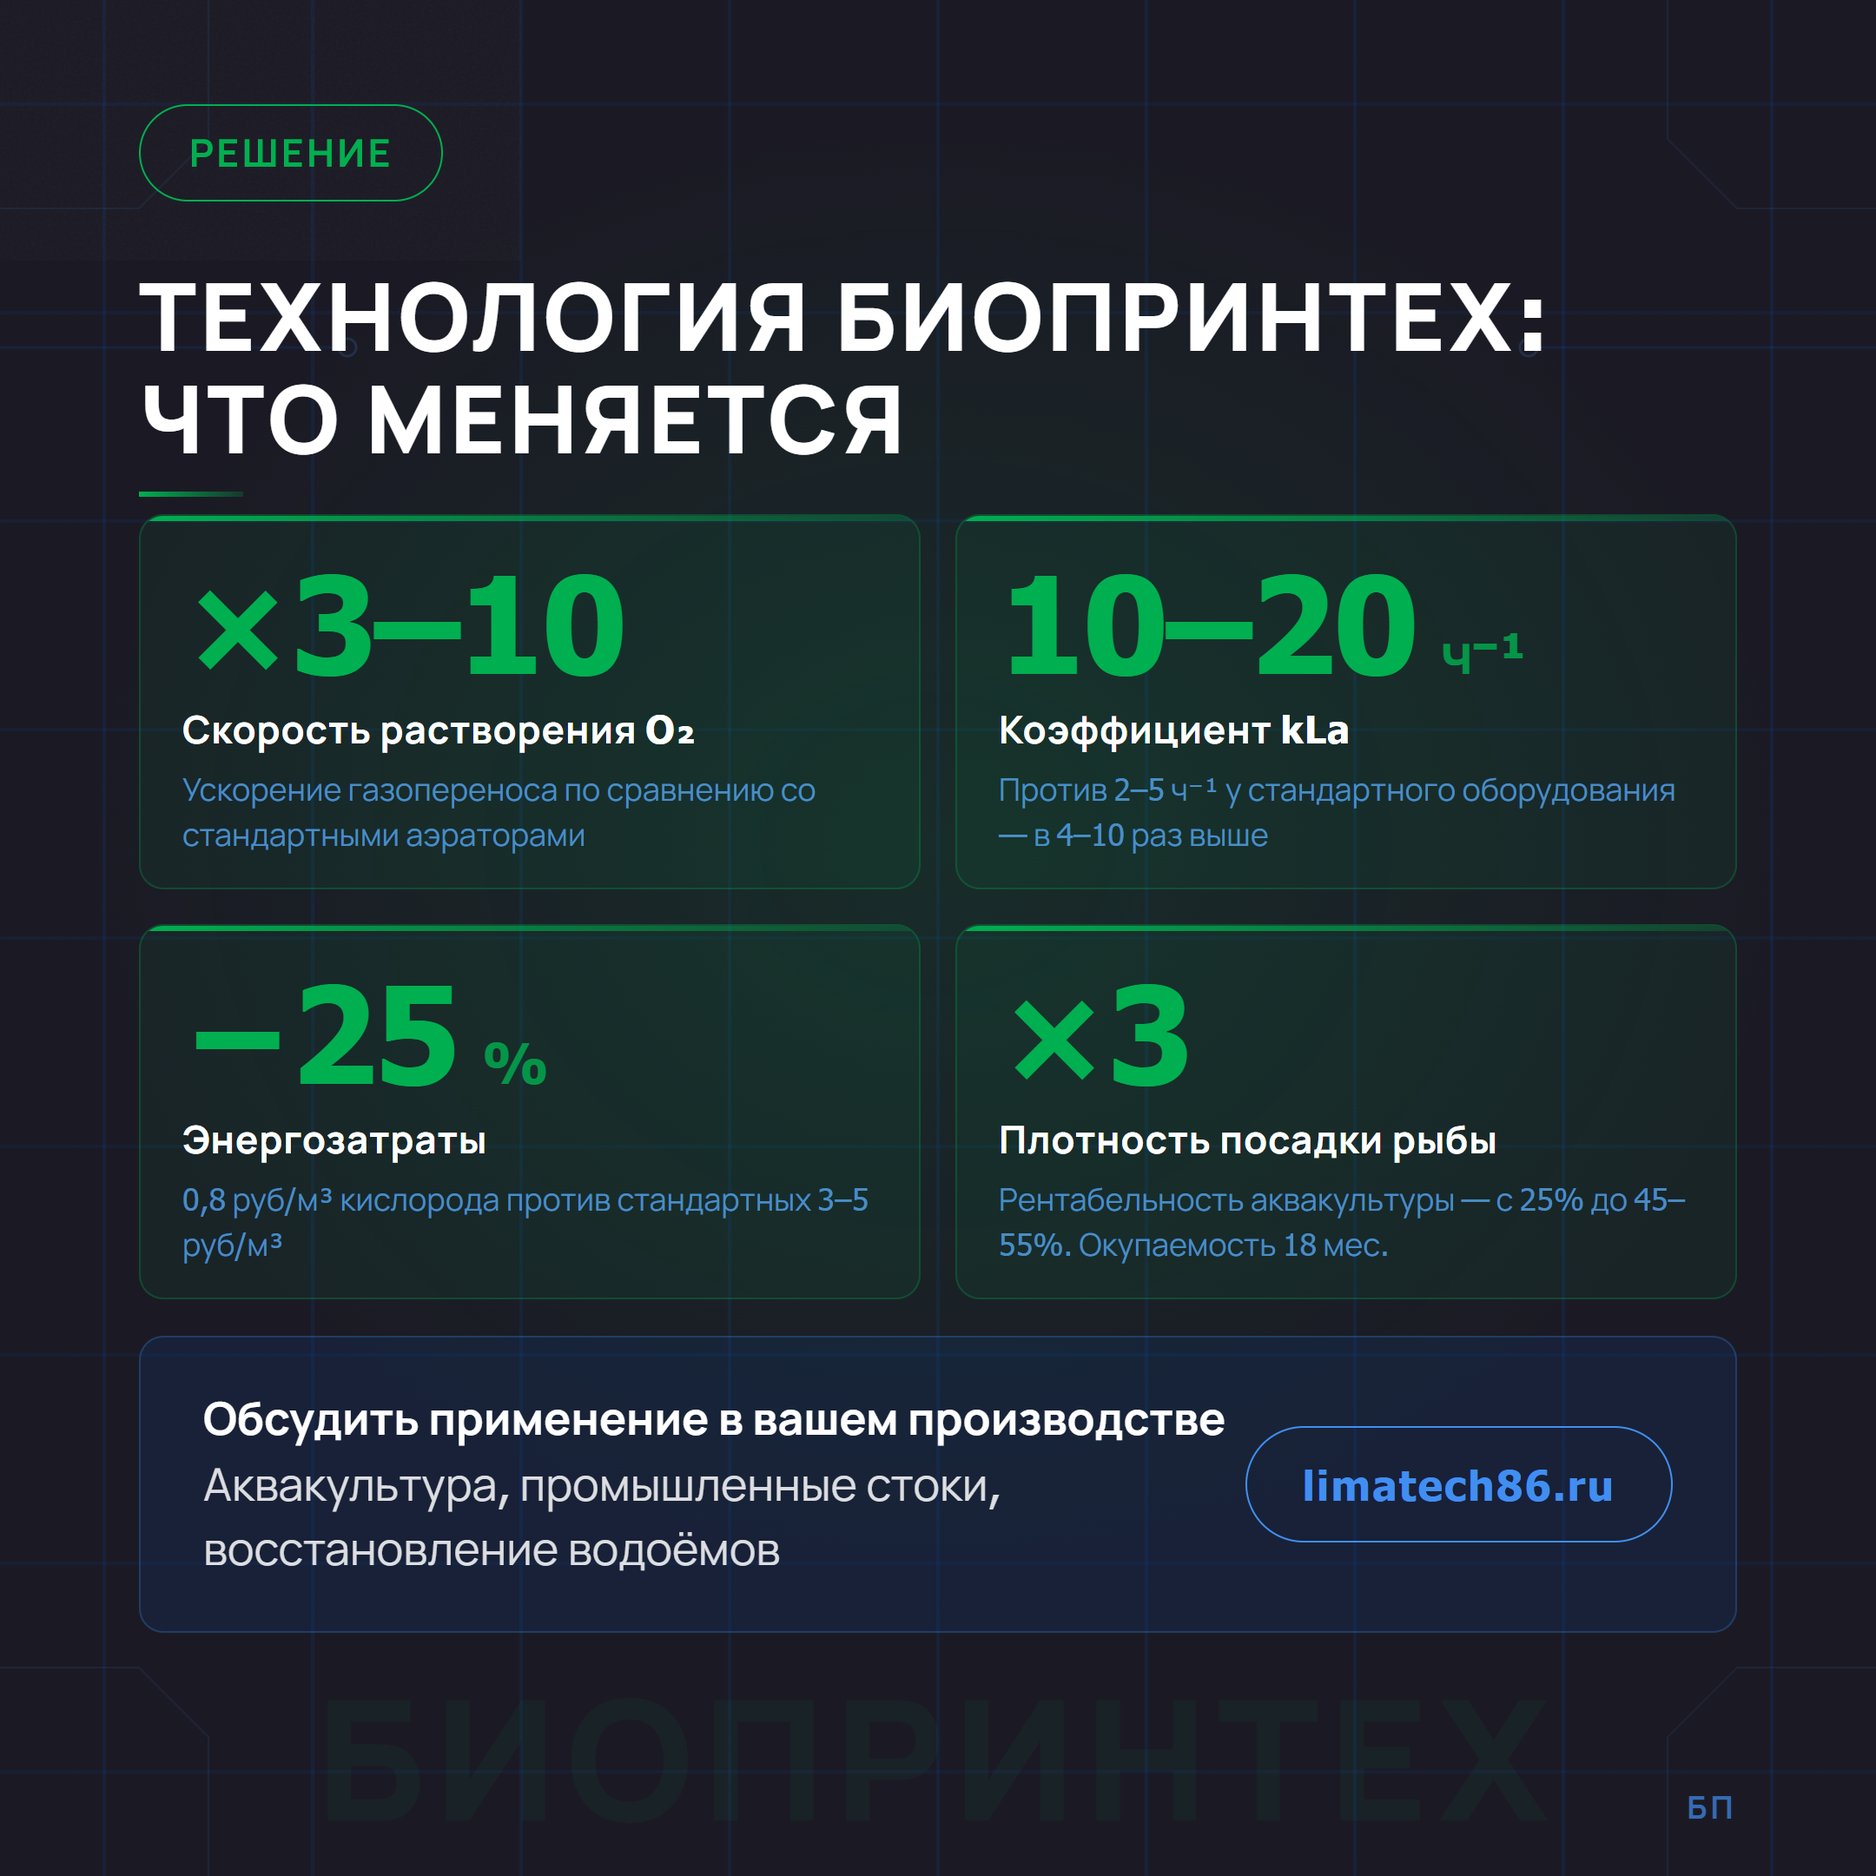
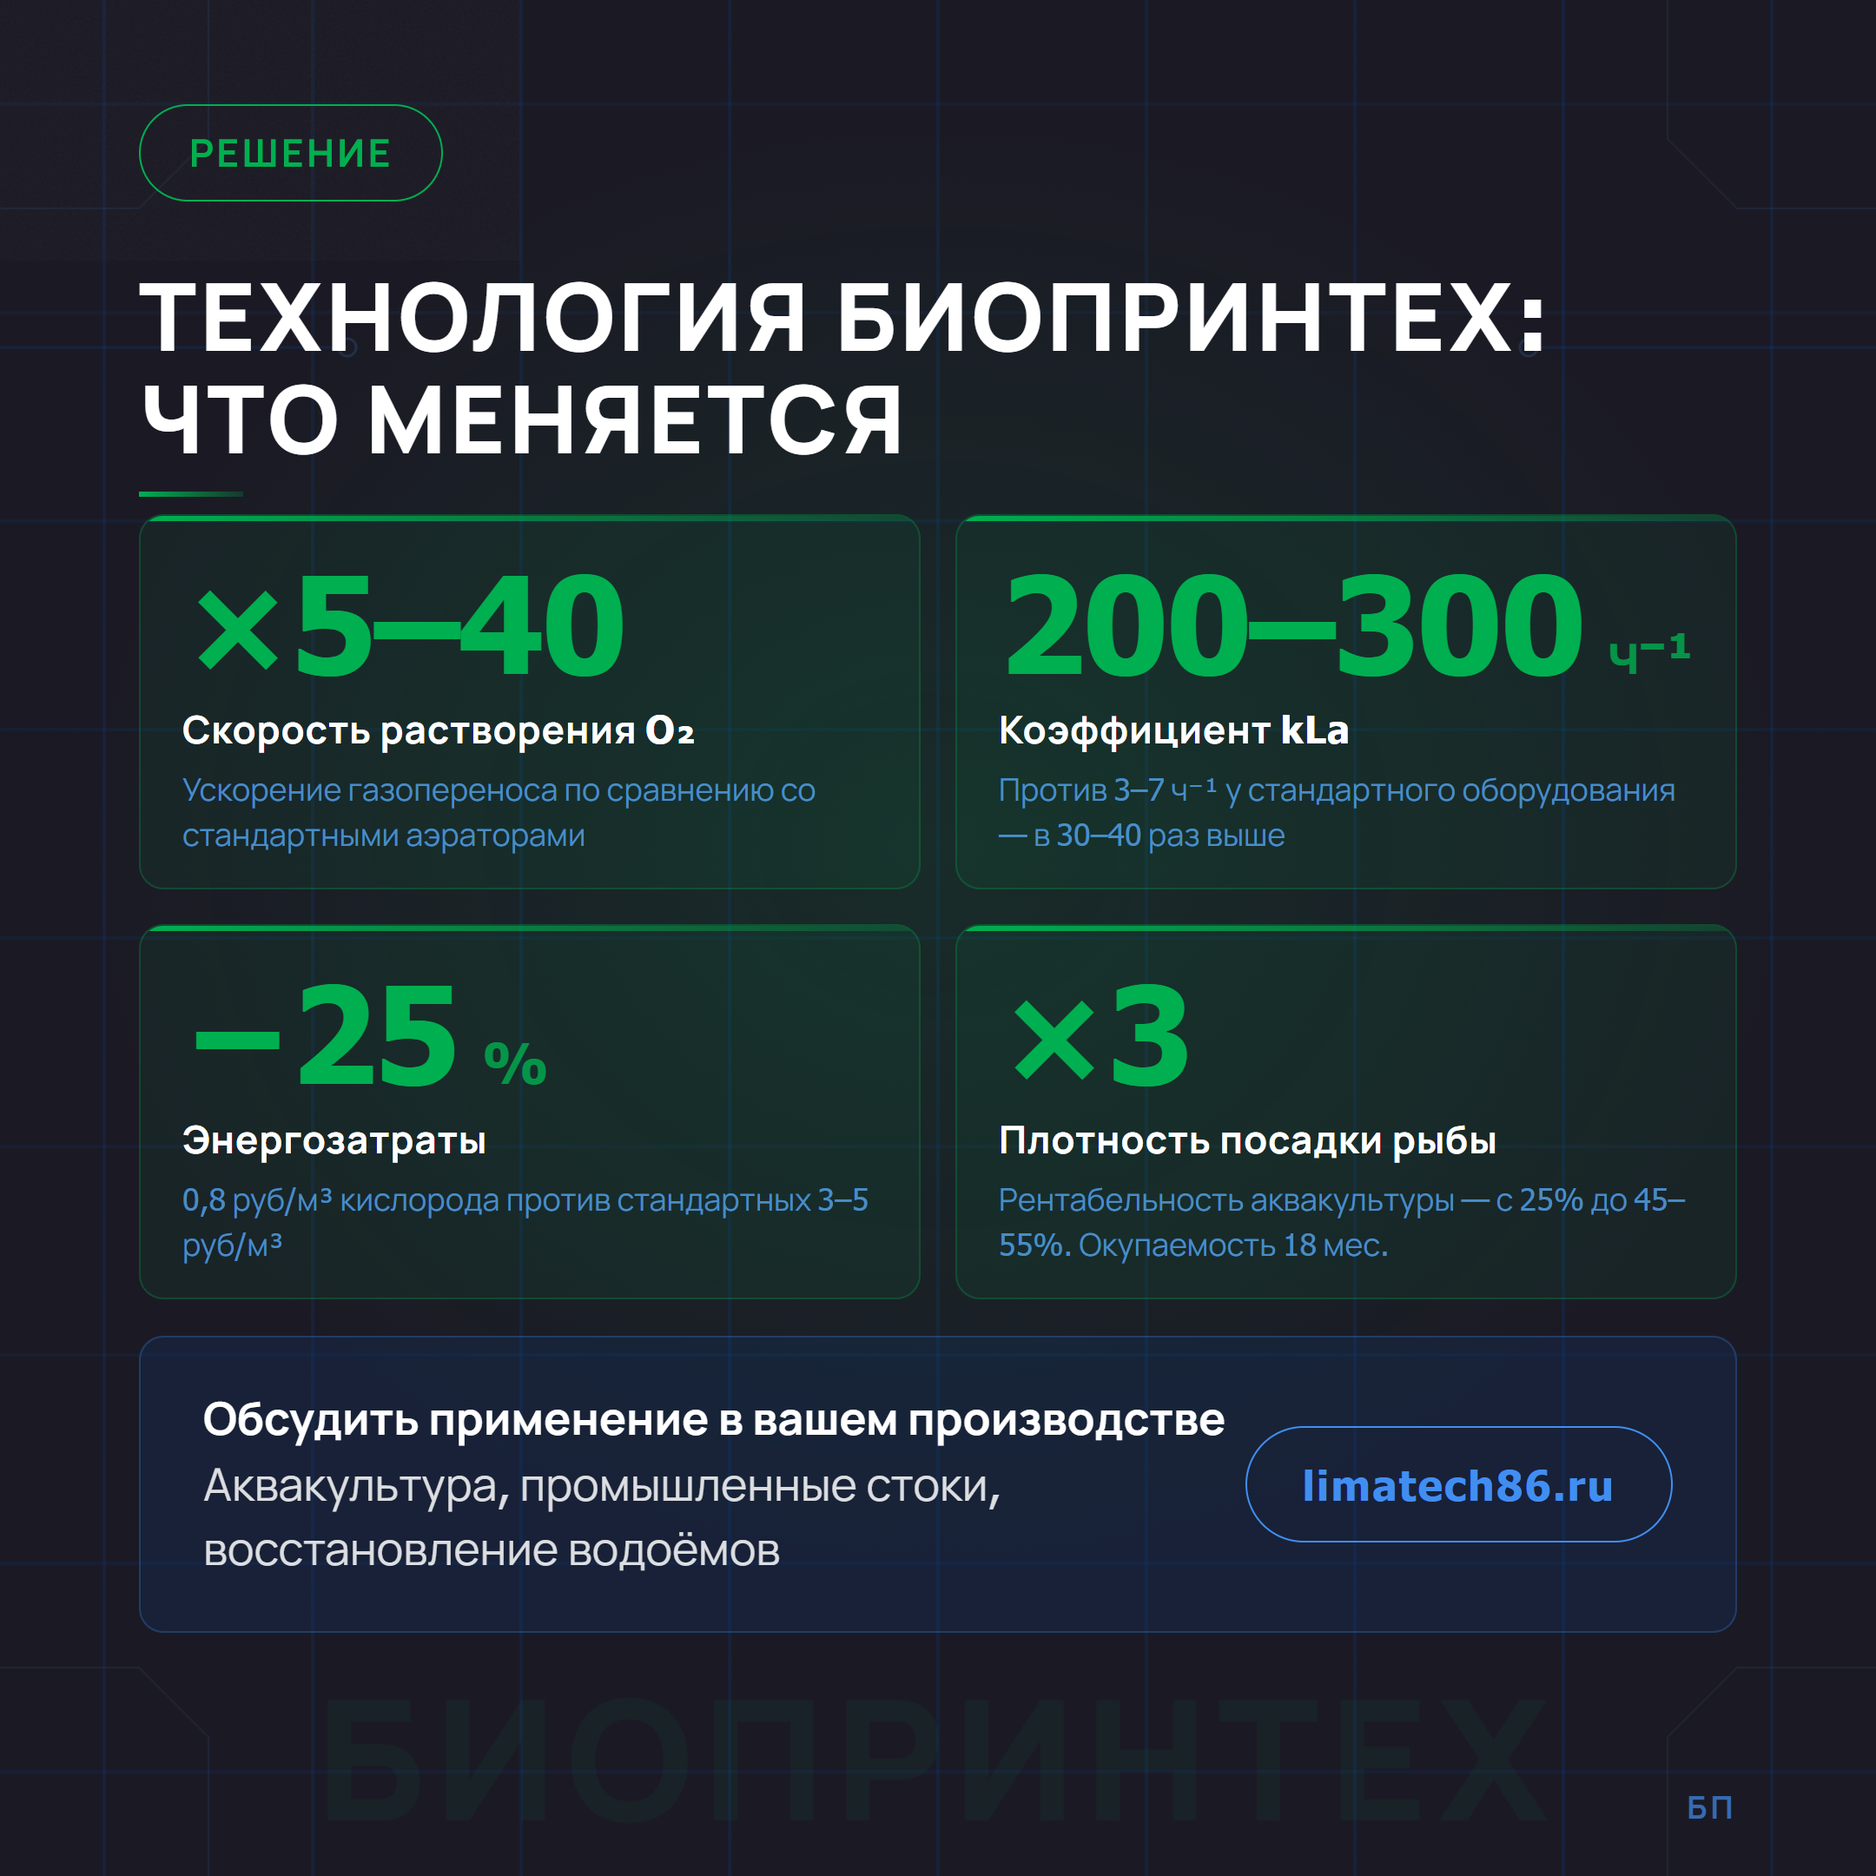
posts: правки клиента — цифры kLa и скорость пузыря, пост газоперенос — Limatech

diff --git a/projects/Bioprintex_Limatex/posts/drafts/29_04_2026-1/slide_03.html b/projects/Bioprintex_Limatex/posts/drafts/29_04_2026-1/slide_03.html
@@ -185,7 +185,7 @@
 
   <!-- Большая цифра kLa -->
   <div class="big-number-block">
-    <div class="big-num">2–5
+    <div class="big-num">3–7
       <span class="big-num-unit">ч⁻¹   kLa</span>
     </div>
     <div class="big-num-label">
@@ -204,7 +204,7 @@
     <!-- Стрелка вверх — всплывает быстро -->
     <line x1="120" y1="48" x2="120" y2="14" stroke="rgba(255,122,31,0.75)" stroke-width="2"/>
     <polygon points="120,8 115,18 125,18" fill="rgba(255,122,31,0.75)"/>
-    <text x="132" y="38" font-family="Tahoma,sans-serif" font-size="18" fill="rgba(255,140,50,0.85)">всплывает за 1–2 с</text>
+    <text x="116" y="38" font-family="Tahoma,sans-serif" font-size="18" fill="rgba(255,140,50,0.85)">23–25 см/с, 5–20 с</text>
 
     <!-- Разделитель -->
     <line x1="230" y1="20" x2="230" y2="290" stroke="rgba(65,142,241,0.25)" stroke-width="1" stroke-dasharray="4,4"/>
@@ -229,11 +229,11 @@
     <div class="prob-list">
       <div class="prob-item">
         <div class="prob-icon">1</div>
-        <div class="prob-text"><strong>Крупные пузыри</strong> — диаметр 3–5 мм даёт площадь контакта ~0,03 м²/л. Пузырь всплывает за 1–2 с, O₂ не успевает перейти в воду.</div>
+        <div class="prob-text"><strong>Крупные пузыри</strong> — диаметр 3–5 мм, скорость всплытия 23–25 см/с, время в толще воды 5–20 с. O₂ не успевает перейти в воду.</div>
       </div>
       <div class="prob-item">
         <div class="prob-icon">2</div>
-        <div class="prob-text"><strong>Низкое kLa = 2–5 ч⁻¹</strong> — при нужных 10+ ч⁻¹ система потребляет в разы больше энергии для достижения того же результата.</div>
+        <div class="prob-text"><strong>Низкое kLa = 3–7 ч⁻¹</strong> — при нужных 10+ ч⁻¹ система потребляет в разы больше энергии для достижения того же результата.</div>
       </div>
     </div>
   </div>

diff --git a/projects/Bioprintex_Limatex/posts/drafts/29_04_2026-1/slide_04.html b/projects/Bioprintex_Limatex/posts/drafts/29_04_2026-1/slide_04.html
@@ -207,14 +207,14 @@
   <!-- 4 метрики -->
   <div class="metrics">
     <div class="metric-card">
-      <div class="m-val">×3–10 <span class="m-unit"></span></div>
+      <div class="m-val">×5–40 <span class="m-unit"></span></div>
       <div class="m-label">Скорость растворения O₂</div>
       <div class="m-desc">Ускорение газопереноса по сравнению со стандартными аэраторами</div>
     </div>
     <div class="metric-card">
-      <div class="m-val">10–20 <span class="m-unit">ч⁻¹</span></div>
+      <div class="m-val">200–300 <span class="m-unit">ч⁻¹</span></div>
       <div class="m-label">Коэффициент kLa</div>
-      <div class="m-desc">Против 2–5 ч⁻¹ у стандартного оборудования — в 4–10 раз выше</div>
+      <div class="m-desc">Против 3–7 ч⁻¹ у стандартного оборудования — в 30–40 раз выше</div>
     </div>
     <div class="metric-card">
       <div class="m-val">−25 <span class="m-unit">%</span></div>

diff --git a/projects/Bioprintex_Limatex/posts/drafts/29_04_2026-1/slide_02.html b/projects/Bioprintex_Limatex/posts/drafts/29_04_2026-1/slide_02.html
@@ -220,7 +220,7 @@
     <div class="concept-card">
       <div class="concept-num">03</div>
       <div class="concept-title">Коэффициент kLa</div>
-      <div class="concept-text">Объёмный коэффициент массопередачи. Чем выше — тем быстрее насыщение. Единица: <em>ч⁻¹</em>. Норма для стандартных аэраторов: 2–5 ч⁻¹.</div>
+      <div class="concept-text">Объёмный коэффициент массопередачи. Чем выше — тем быстрее насыщение. Единица: <em>ч⁻¹</em>. Норма для стандартных аэраторов: 3–7 ч⁻¹.</div>
     </div>
   </div>
 

diff --git a/projects/Bioprintex_Limatex/posts/drafts/29_04_2026-1/slide_01.html b/projects/Bioprintex_Limatex/posts/drafts/29_04_2026-1/slide_01.html
@@ -208,7 +208,7 @@
       <div class="f-label">Движущая сила</div>
     </div>
     <div class="formula-item">
-      <div class="f-val">×10</div>
+      <div class="f-val">×40</div>
       <div class="f-label">Ускорение Биопринтех</div>
     </div>
   </div>

diff --git a/projects/Bioprintex_Limatex/posts/drafts/29_04_2026-1/post.md b/projects/Bioprintex_Limatex/posts/drafts/29_04_2026-1/post.md
@@ -20,21 +20,21 @@
 
 💧 Газоперенос — это перенос молекул газа через границу раздела газ–жидкость.
 
-Звучит как физика из учебника. Но именно этот процесс определяет, сколько рыбы выживет в УЗВ, насколько чистыми будут промышленные стоки и как быстро восстановится водоём.
+Звучит как физика из учебника. Но именно этот процесс определяет, сколько рыбы выживет в водоеме и УЗВ, насколько чистыми будут промышленные стоки и как быстро восстановится водоём.
 
 Как это работает:
 
-🔹 Молекулы кислорода проходят через плёнку на границе газ–жидкость и растворяются в воде
-🔹 **Движущая сила** — разность концентраций ΔC: чем ниже O₂ в воде, тем активнее идёт перенос
-🔹 Скорость всего процесса описывает **коэффициент kLa** — чем он выше, тем эффективнее аэрация
+🔹 Молекулы кислорода первично адсорбируются в волновые поверхностные каверны плёнки на границе газ–жидкость и диффузионно абсорбируются в воду
+🔹 Движущая сила — разность парциальных давлений ΔC: чем меньше газогидратов O₂ в воде, тем интенсивнее идёт поглощение
+🔹 Скорость всего процесса отражает коэффициент kLa — чем он выше, тем интенсивнее аэрация
 
-Проблема стандартного оборудования — в физике пузыря 🫧
+Проблема стандартного оборудования — в физике поведения граничного слоя пузыря 🫧
 
-Крупный пузырь диаметром 3–5 мм всплывает за 1–2 секунды. Кислород просто **не успевает перейти в воду**. Коэффициент kLa у таких систем — всего 2–5 ч⁻¹ при необходимых 10+.
+Крупный пузырь диаметром 3–5 мм всплывает со скоростью 23..25 см/с находясь в толще воды 5–20 секунд. Кислород просто не успевает перейти в воду. Коэффициент массопереноса kLa у таких систем — всего 3–7 ч⁻¹ при необходимых 10+.
 
-Результат: перерасход энергии, недостаточное насыщение, потери в производительности.
+Результат: высокие энергозатраты, медленное насыщение, высокие капитальные затраты.
 
-Задача технологии газонасыщения — **увеличить площадь контакта газ–жидкость** при минимуме энергозатрат. Именно это и делают наши аэраторы: kLa до 10–20 ч⁻¹, скорость растворения кислорода **в 3–10 раз быстрее**, энергозатраты **−25%** 📊
+Задача технологии газонасыщения — увеличить скорость поверхностной гидратации и площадь контакта газ–жидкость при минимуме энергозатрат. Именно это и делают наши аэраторы: обеспечивают kLa до 200–300 ч⁻¹, скорость растворения кислорода в 5–40 раз быстрее, снижая энергозатраты более 25% 📊
 
 В следующих постах — как это работает на аэраторах ЗГ и МГ с конкретными цифрами производств.
 
